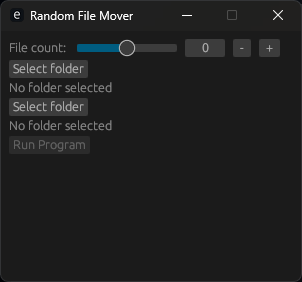
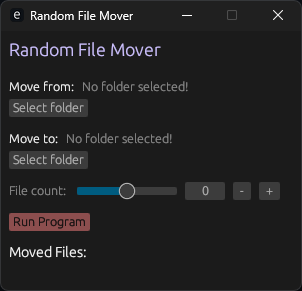
- updated ui and refactored some code

diff --git a/src/main.rs b/src/main.rs
@@ -1,6 +1,6 @@
-#![windows_subsystem = "windows"]
+// #![windows_subsystem = "windows"]
 
-use egui::{Color32, RichText, Slider};
+use egui::{Color32, RichText, ScrollArea, Slider};
 use rand::prelude::*;
 use std::fs::{self};
 use walkdir::WalkDir;
@@ -8,7 +8,7 @@ use walkdir::WalkDir;
 fn main() -> eframe::Result {
     let options = eframe::NativeOptions {
         viewport: egui::ViewportBuilder::default()
-            .with_inner_size([300.0, 250.0])
+            .with_inner_size([300.0, 500.0])
             .with_position([300.0, 300.0])
             .with_resizable(false)
             .with_maximize_button(false),
@@ -21,21 +21,28 @@ fn main() -> eframe::Result {
     let mut old_folder: Option<String> = None;
     let mut new_folder: Option<String> = None;
     let mut main_program_enabled = false;
+    let mut moved_files: Result<String, std::io::Error> = Ok("".to_string());
 
     eframe::run_simple_native("Random File Mover", options, move |ctx, _frame| {
         egui::CentralPanel::default().show(ctx, |ui| {
-            ui.heading("Random File Mover");
+            ui.label(
+                RichText::new("Random File Mover")
+                    .heading()
+                    .color(Color32::from_hex("#CDC1FF").unwrap()),
+            );
 
             ui.add_space(15.0);
 
             // ! first file picker
-            match old_folder.to_owned() {
-                Some(folder_path) => ui.label(
-                    RichText::new(format!("Move from: {}", folder_path))
-                        .color(Color32::from_rgb(255, 255, 255)),
-                ),
-                None => ui.label("Move from: No folder selected!"),
-            };
+            ui.horizontal(|ui| {
+                ui.label(RichText::new("Move from:").color(Color32::WHITE));
+                match old_folder.to_owned() {
+                    Some(folder_path) => ui.label(
+                        RichText::new(folder_path).color(Color32::from_hex("#FAC67A").unwrap()),
+                    ),
+                    None => ui.label("No folder selected!"),
+                };
+            });
 
             if ui.button("Select folder").clicked() {
                 if let Some(path) = rfd::FileDialog::new().pick_folder() {
@@ -54,14 +61,16 @@ fn main() -> eframe::Result {
 
             ui.add_space(10.0);
 
-            // ! second file picker
-            match new_folder.to_owned() {
-                Some(folder_path) => ui.label(
-                    RichText::new(format!("Move to: {}", folder_path))
-                        .color(Color32::from_rgb(255, 255, 255)),
-                ),
-                None => ui.label("Move to: No folder selected!"),
-            };
+            ui.horizontal(|ui| {
+                ui.label(RichText::new("Move to:").color(Color32::WHITE));
+                // ! second file picker
+                match new_folder.to_owned() {
+                    Some(folder_path) => ui.label(
+                        RichText::new(folder_path).color(Color32::from_hex("#FAC67A").unwrap()),
+                    ),
+                    None => ui.label("No folder selected!"),
+                };
+            });
 
             if ui.button("Select folder").clicked() {
                 if let Some(path) = rfd::FileDialog::new().pick_folder() {
@@ -95,7 +104,7 @@ fn main() -> eframe::Result {
                 ui.style_mut().visuals.override_text_color = Some(Color32::BLACK);
 
                 if ui.button("Run Program").clicked() {
-                    let _ = move_files(
+                    moved_files = move_files(
                         &mut files,
                         &old_folder.to_owned().unwrap(),
                         &new_folder.to_owned().unwrap(),
@@ -103,6 +112,27 @@ fn main() -> eframe::Result {
                     );
                 }
             });
+
+            ui.add_space(10.0);
+
+            // ! output
+            ui.label(
+                RichText::new("Moved Files: ")
+                    .color(Color32::WHITE)
+                    .size(14.0),
+            );
+            ui.add_space(3.0);
+            ScrollArea::vertical().auto_shrink(false).show_rows(
+                ui,
+                0.0,
+                10_000,
+                |ui, _row_range| {
+                    ui.label(
+                        RichText::new(moved_files.as_ref().unwrap())
+                            .color(Color32::from_hex("#FAC67A").unwrap()),
+                    );
+                },
+            );
 
             if old_folder.is_some() && new_folder.is_some() {
                 if old_folder.to_owned().unwrap() == new_folder.to_owned().unwrap() {
@@ -123,8 +153,10 @@ fn move_files(
     old_folder: &str,
     new_folder: &str,
     random_file_count: usize,
-) -> std::io::Result<()> {
+) -> std::io::Result<String> {
     let mut rng = rand::thread_rng();
+
+    let mut result = "".to_string();
 
     for _ in 0..random_file_count {
         let index = rng.gen_range(0..files.len());
@@ -132,9 +164,11 @@ fn move_files(
         let new_file = format!("{}", old_file.path().display());
         let file_name = new_file.replace(old_folder, "");
 
+        result.push_str(&format!("{}\n", &file_name.replace("\\", "")));
+
         fs::rename(old_file.path(), format!("{}{}", new_folder, file_name))?;
         files.remove(index);
     }
 
-    Ok(())
+    Ok(result)
 }
